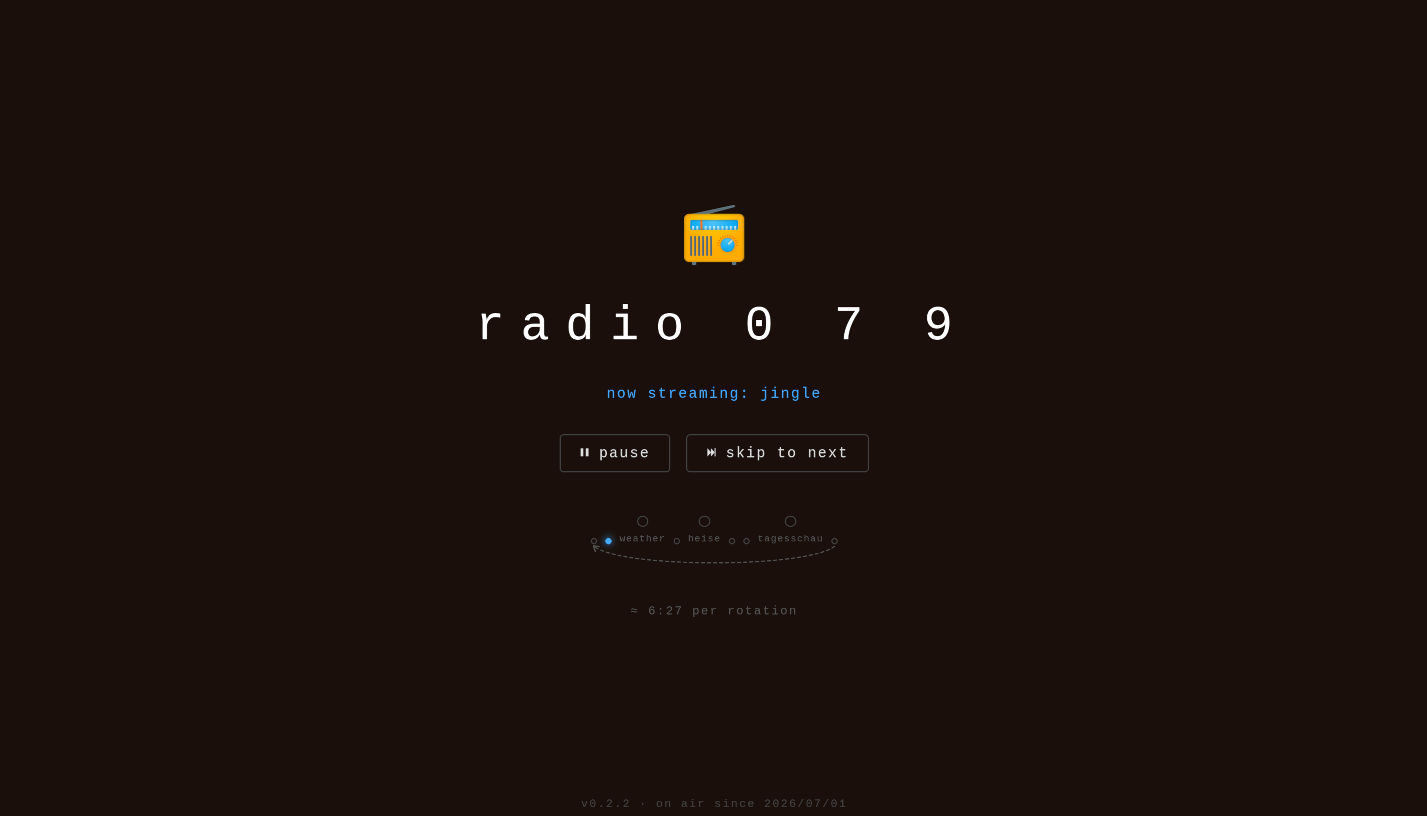
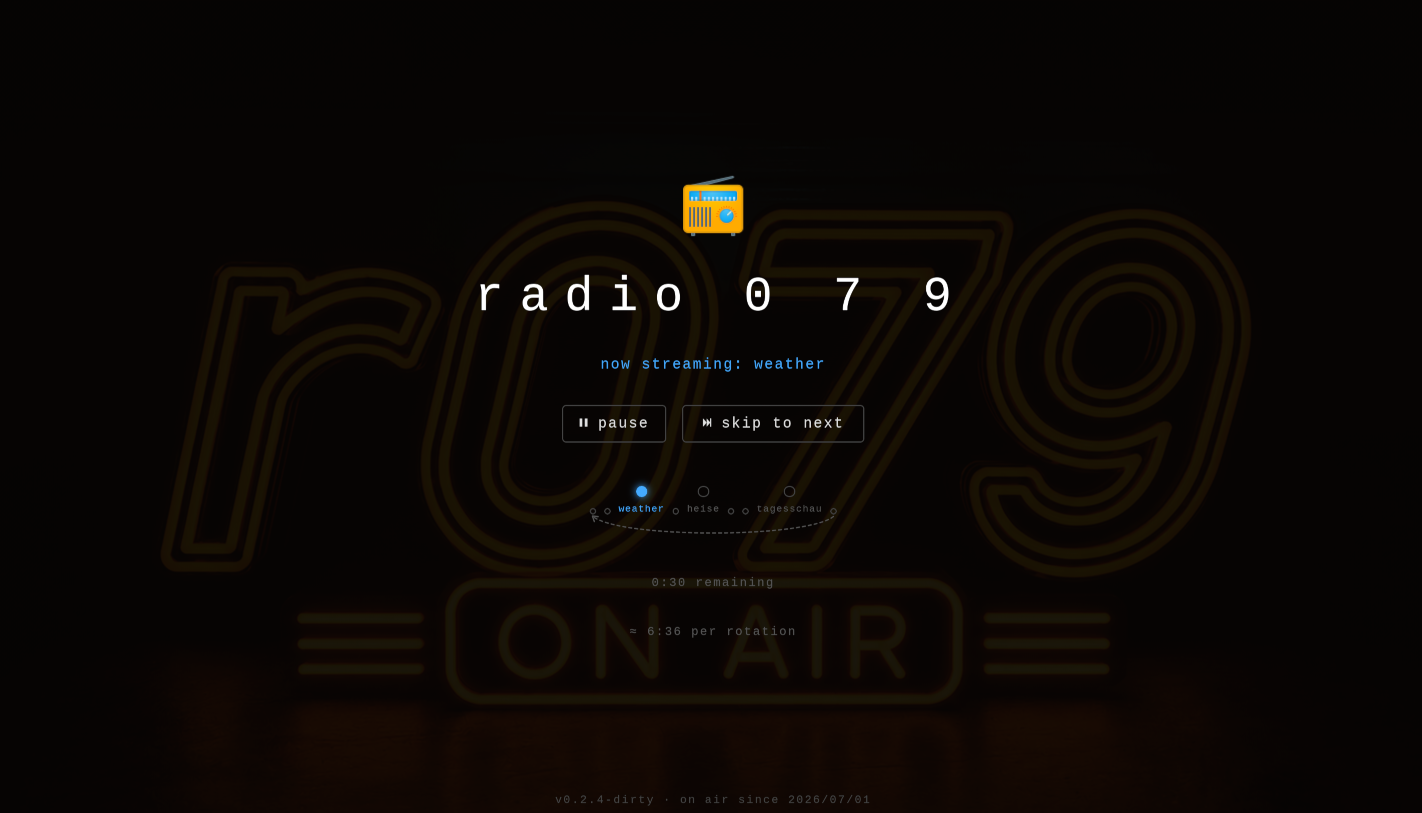
make audio dots clickable, update screenshot

diff --git a/src/webserver.py b/src/webserver.py
@@ -109,6 +109,7 @@ _HTML = """\
     gap: 0.5rem;
     transition: border-color 0.2s, color 0.2s;
   }
+  #pause { width: 6.5rem; justify-content: center; }
   .btn:hover:not(:disabled) { border-color: #44aaff; color: #44aaff; }
   .btn:disabled { opacity: 0.3; cursor: default; }
   .btn .icon { font-size: 1rem; line-height: 1; }
@@ -134,6 +135,7 @@ _HTML = """\
     flex-direction: column;
     align-items: center;
     gap: 0.4rem;
+    cursor: pointer;
   }
   .seg .dot {
     width: 0.7rem;
@@ -143,6 +145,8 @@ _HTML = """\
     background: transparent;
     transition: background 0.3s, border-color 0.3s, box-shadow 0.3s;
   }
+  .seg:hover .dot { border-color: #44aaff; }
+  .seg:hover .label { color: #44aaff; }
   .seg.jingle .dot { width: 0.4rem; height: 0.4rem; }
   .seg .label {
     font-size: 0.6rem;
@@ -244,10 +248,11 @@ _HTML = """\
 
     function buildRotation() {
       rotationEl.innerHTML = '';
-      segs = tracks.map(t => {
+      segs = tracks.map((t, i) => {
         const seg = document.createElement('div');
         seg.className = 'seg' + (t.jingle ? ' jingle' : '') + (t.failed ? ' failed' : '');
-        seg.title = t.name;
+        seg.title = 'play: ' + t.name;
+        seg.addEventListener('click', () => { idx = i; playNext(); });
         const dot = document.createElement('div');
         dot.className = 'dot';
         seg.appendChild(dot);